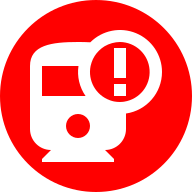
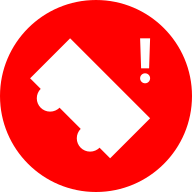
Update notification handling and SVGs in racecs-server
Enhanced the completion and partial completion notifications in the backend router file. Now when a player or team finishes a race, a detailed notification message is created and broadcasted. Changed the SVG files for UI icons in the frontend including login, sports score and railway alert icons for both black and white themes. This is intended to enhance user experience and provide more visual information. Changes in the user.js file made to adjust the notification handling based on the team visitation and arrival at the different stations.

Changed region(s): [[0.1562, 0.1562, 0.8438, 0.8438]]

diff --git a/racecs-server-backend/router.js b/racecs-server-backend/router.js
@@ -173,13 +173,18 @@ router.post("/arrive/:player/completion", async (req, res) => {
         const place = teams.length - teams.filter(team => !team.place).length + 1;
         teams[teamIndex].place = place;
 
+        const body = `${req.params.player} has returned to the terminal station! Team "${team.name}" has finished as #${place}!`;
         WebSocket.broadcastDiscord({
             author: {
                 name: "Finished!",
                 icon_url: "https://aircs.racing/finish_notification.png"
             },
-            description: `${req.params.player} has returned to the terminal station! Team "${team.name}" has finished as #${place}!`,
+            description: body,
             color: 16753920
+        });
+        WebSocket.broadcastNotification({
+            body: body,
+            icon: "finish_notification.png"
         });
         WebSocket.broadcast({
             "type": "completion-team",
@@ -188,13 +193,18 @@ router.post("/arrive/:player/completion", async (req, res) => {
             "place": place
         });
     } else {
+        const body = `${req.params.player} from team "${team.name}" has returned to the terminal station! ${remaining} more from the team required to return!`;
         WebSocket.broadcastDiscord({
             author: {
                 name: "Player Returned!",
-                icon_url: "https://aircs.racing/collision_notification.png"
+                icon_url: "https://aircs.racing/returned_notification.png"
             },
-            description: `${req.params.player} from team "${team.name}" has returned to the terminal station! ${remaining} more from the team required to return!`,
+            description: body,
             color: 4360181
+        });
+        WebSocket.broadcastNotification({
+            body: body,
+            icon: "returned_notification.png"
         });
         WebSocket.broadcast({
             "type": "completion-partial",

diff --git a/racecs-server-backend/user.js b/racecs-server-backend/user.js
@@ -17,12 +17,18 @@ class User {
 
         let isTeamVisitation = false;
         let body = `${this.username} has arrived at ${stationName}!`;
+        let icon = "login_notification.png";
+        let color = 0x008000;
         if (this.team) {
             if (!this.team.visited) this.team.visited = [];
             if (!this.team.visited.includes(station)) {
                 this.team.visited.push(station);
                 body = `${this.username} has arrived at ${stationName} and has claimed it for ${this.team.name}!`;
+                // icon = "login_notification.png";
                 isTeamVisitation = true;
+            } else {
+                icon = "arrive_no_claim_notification.png";
+                color = 0x808080;
             }
         }
 
@@ -34,16 +40,16 @@ class User {
             "team": isTeamVisitation ? this.team?.id : null
         });
         WebSocket.broadcastNotification({
-            body: body ,
-            icon: "login_notification.png"
+            body: body,
+            icon: icon
         });
         WebSocket.broadcastDiscord({
             author: {
                 name: "Arrival!",
-                icon_url: "https://aircs.racing/login_notification.png"
+                icon_url: `https://aircs.racing/${icon}`
             },
             description: body,
-            color: 32768
+            color: color
         });
     }
 
